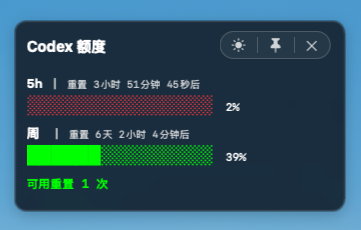
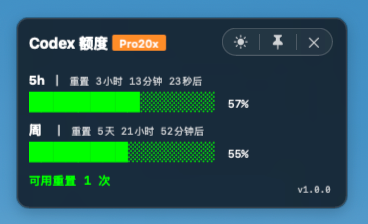
Update preview and subscription badge style

Changed region(s): [[0.0305, 0.0938, 0.7008, 0.9062], [0.0609, 0.0625, 1.0, 1.0], [0.7922, 0.8125, 0.9141, 0.875]]

diff --git a/sources/UsageWidget.swift b/sources/UsageWidget.swift
@@ -201,23 +201,18 @@ func progressBar(percent: Int, width: Int = 15) -> String {
 }
 
 func planBadgeText(_ planType: String?) -> String {
-    guard let raw = planType?.trimmingCharacters(in: .whitespacesAndNewlines).lowercased(), !raw.isEmpty else {
-        return ""
-    }
-    let label: String
-    switch raw {
+    switch normalizedPlanType(planType) {
     case "free":
-        label = "Free"
+        return "Free"
     case "plus":
-        label = "Plus"
-    case "pro", "pro5x", "pro_5x", "pro-5x":
-        label = "Pro5x"
-    case "pro20x", "pro_20x", "pro-20x":
-        label = "Pro20x"
+        return "Plus"
+    case "pro5x":
+        return "Pro5x"
+    case "pro20x":
+        return "Pro20x"
     default:
         return ""
     }
-    return "（\(label)）"
 }
 
 func normalizedPlanType(_ planType: String?) -> String? {
@@ -703,22 +698,47 @@ class WindowController: NSWindowController, NSWindowDelegate {
             }
             return String(characters.prefix(max(0, low))) + ellipsis
         }
+        func badgeAttachment(text: String, font: NSFont, backgroundColor: NSColor, textColor: NSColor) -> NSTextAttachment {
+            let horizontalPadding: CGFloat = 7
+            let height: CGFloat = 16
+            let width = ceil(textWidth(text, font: font) + horizontalPadding * 2)
+            let image = NSImage(size: NSSize(width: width, height: height))
+            image.lockFocus()
+            backgroundColor.setFill()
+            NSBezierPath(roundedRect: NSRect(x: 0, y: 0, width: width, height: height), xRadius: 2, yRadius: 2).fill()
+            let attributes: [NSAttributedString.Key: Any] = [
+                .font: font,
+                .foregroundColor: textColor
+            ]
+            let textSize = (text as NSString).size(withAttributes: attributes)
+            (text as NSString).draw(at: NSPoint(x: (width - textSize.width) / 2, y: (height - textSize.height) / 2 - 0.5), withAttributes: attributes)
+            image.unlockFocus()
+
+            let attachment = NSTextAttachment()
+            attachment.image = image
+            attachment.bounds = NSRect(x: 0, y: -2, width: width, height: height)
+            return attachment
+        }
 
         let titleFont = NSFont.systemFont(ofSize: 15, weight: .bold)
-        let planFont = NSFont.systemFont(ofSize: 12, weight: .semibold)
+        let planFont = NSFont.systemFont(ofSize: 11, weight: .semibold)
+        let planBadge = planBadgeText(planType)
         let planColor: NSColor
-        switch normalizedPlanType(planType) {
+        let planTextColor: NSColor
+        let planStyle = normalizedPlanType(planBadge) ?? normalizedPlanType(planType)
+        switch planStyle {
         case "plus":
-            planColor = NSColor.green
+            planColor = NSColor(calibratedRed: 0.0, green: 0.72, blue: 0.08, alpha: 1.0)
+            planTextColor = NSColor.white
         case "pro5x", "pro20x":
             planColor = NSColor.systemOrange
+            planTextColor = NSColor.white
         default:
-            planColor = secondaryTextColor
+            planColor = NSColor.systemGray
+            planTextColor = NSColor.white
         }
         let title = attrs(font: titleFont,
                           color: primaryTextColor, lineHeight: 18, spacing: 20)
-        let plan = attrs(font: planFont,
-                         color: planColor, lineHeight: 18, spacing: 20)
         let rowLabelFont = NSFont.monospacedSystemFont(ofSize: 13, weight: .bold)
         let separatorFont = NSFont.monospacedSystemFont(ofSize: 8, weight: .bold)
         let dimFont = NSFont.monospacedSystemFont(ofSize: 10, weight: .regular)
@@ -740,10 +760,10 @@ class WindowController: NSWindowController, NSWindowDelegate {
         let rowLabel = attrs(font: rowLabelFont, color: primaryTextColor, lineHeight: 16)
         let separator = attrs(font: separatorFont,
                               color: secondaryTextColor, lineHeight: 16, baseline: 2.0)
-        let planBadge = planBadgeText(planType)
+        let planBadgeWidth = planBadge.isEmpty ? 0 : ceil(textWidth(planBadge, font: planFont) + 14)
         let titleRowMaxWidth: CGFloat = 184
-        let titlePlanGap: CGFloat = planBadge.isEmpty ? 0 : 2
-        let titleMaxWidth = max(20, titleRowMaxWidth - textWidth(planBadge, font: planFont) - titlePlanGap)
+        let titlePlanGap: CGFloat = planBadge.isEmpty ? 0 : 5
+        let titleMaxWidth = max(20, titleRowMaxWidth - planBadgeWidth - titlePlanGap)
         let titleText = ellipsized(language.title, font: titleFont, maxWidth: titleMaxWidth)
         let fiveLabel = "5h"
         let fiveSeparator = "  ┃  "
@@ -757,7 +777,8 @@ class WindowController: NSWindowController, NSWindowDelegate {
         let mas = NSMutableAttributedString()
         mas.append(NSAttributedString(string: titleText, attributes: title))
         if !planBadge.isEmpty {
-            mas.append(NSAttributedString(string: planBadge, attributes: plan))
+            mas.append(NSAttributedString(string: " ", attributes: title))
+            mas.append(NSAttributedString(attachment: badgeAttachment(text: planBadge, font: planFont, backgroundColor: planColor, textColor: planTextColor)))
         }
         mas.append(NSAttributedString(string: "\n", attributes: title))
         mas.append(NSAttributedString(string: fiveLabel, attributes: rowLabel))

diff --git a/CHANGELOG.md b/CHANGELOG.md
@@ -40,7 +40,8 @@ All notable changes to Codex Usage Widget are documented here.
 - Changed lifecycle handling so the widget no longer exits when Codex Desktop is closed.
 - Fixed account switching so 5-hour and weekly quota rows stop reusing rate-limit events from the previous account.
 - Fixed 5-hour and weekly quota refresh after account switches by reading Codex's current usage endpoint instead of relying on stale session rate-limit events.
-- Added a non-compressing subscription badge after the widget title, showing Free, Plus, Pro5x, or Pro20x when available, with Free muted, Plus green, and Pro orange.
+- Added a non-compressing subscription badge after the widget title, showing Free, Plus, Pro5x, or Pro20x when available, with rounded backgrounds and white text.
+- Updated the README preview image to show the current Pro20x badge UI.
 
 ### Notes
 